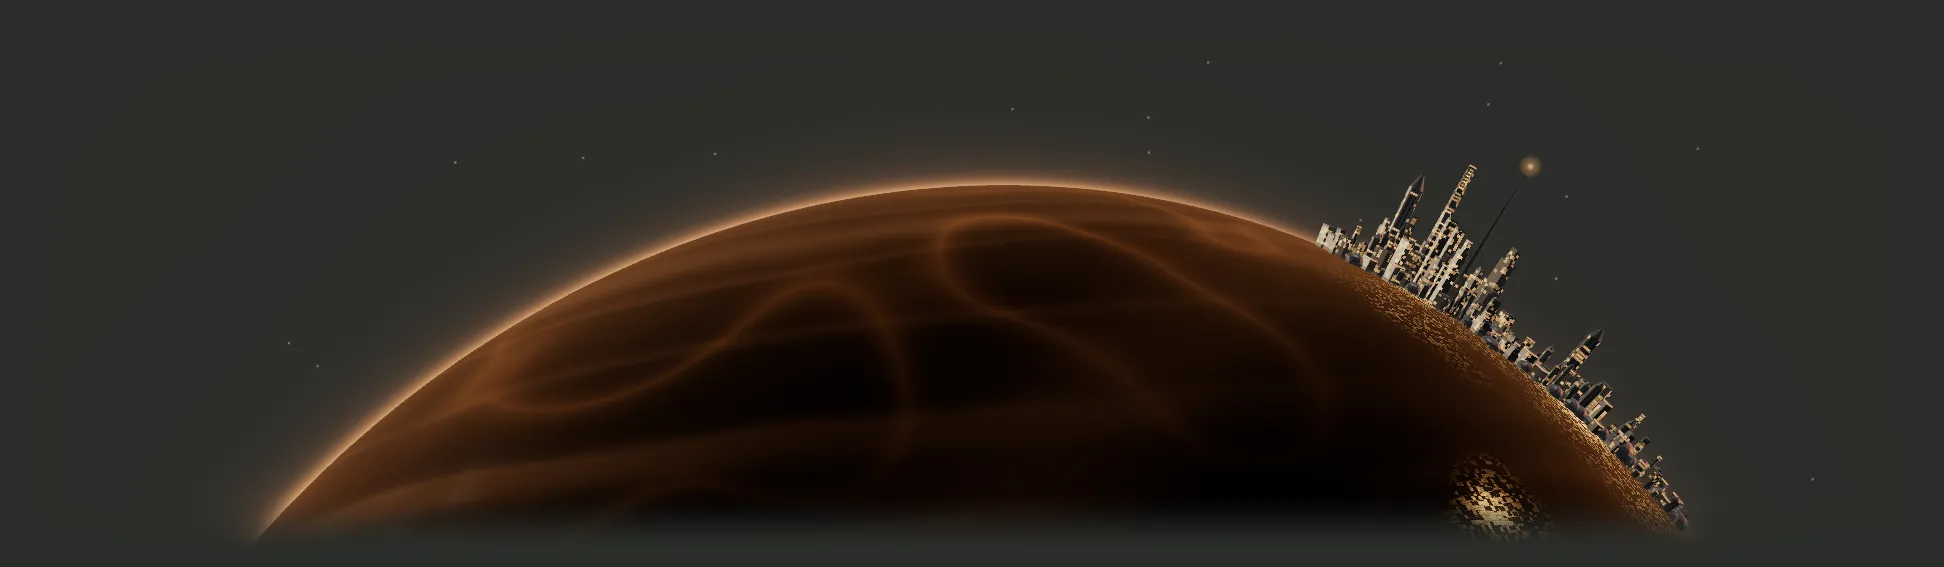
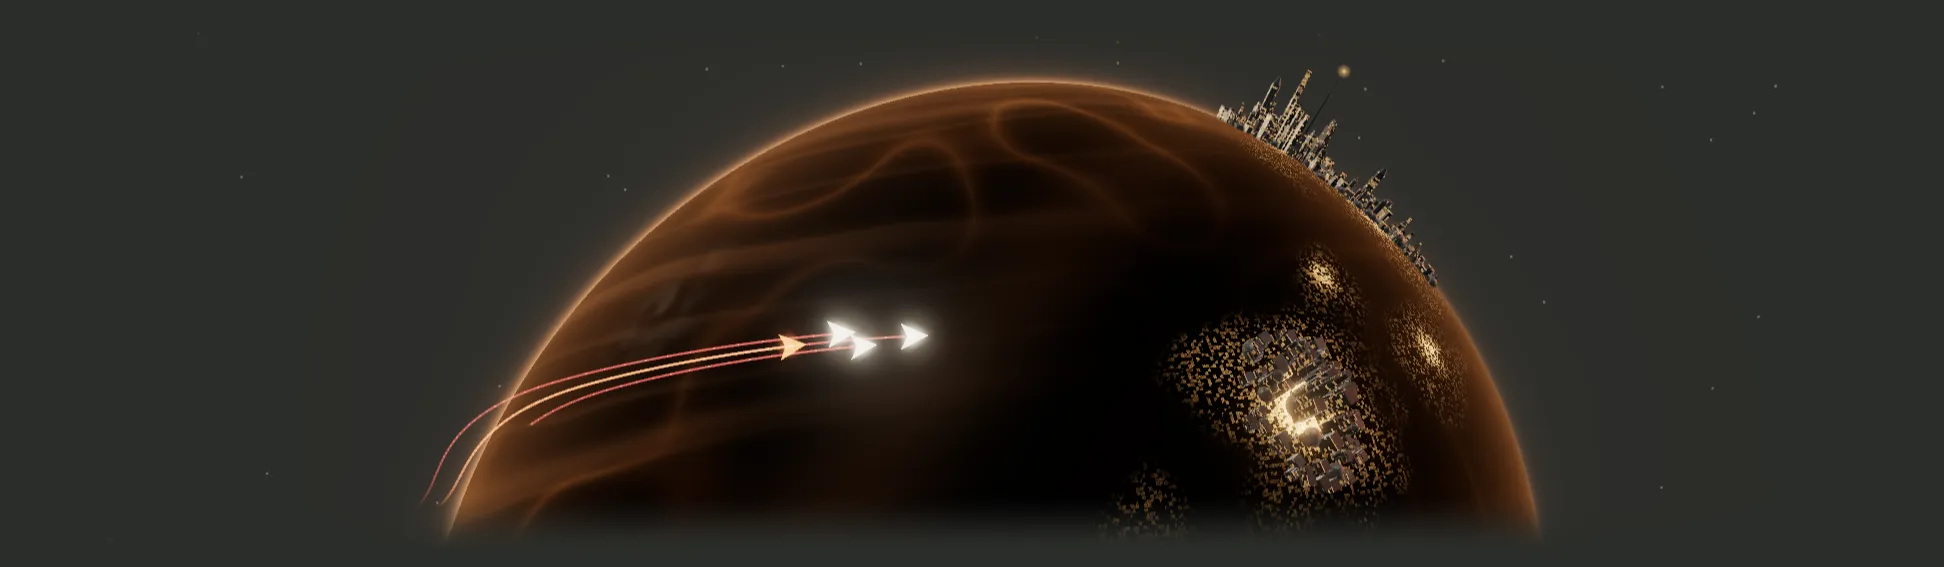
fix(#67): align project metaphors and reveal the Playbooks formation
Correct Home and Portfolio to describe projects as bases of operations. Reframe the existing Playbooks flight, separate its craft and refresh desktop/phone posters so the retained flight-plan caption matches the scene.

Agent: Codex (gpt-6-astra)

diff --git a/src/lib/orbit/collection-scene.ts b/src/lib/orbit/collection-scene.ts
@@ -26,7 +26,7 @@ import { Structures, buildingMaterial, cityCluster, cityLights, riser, groundSph
  * - `playbooks` — F3 Limb and lights: the site's own planet up close, its limb arcing across the
  *   upper stage; three skylines stand on the limb and the terminator and the night face carries
  *   city lights clustered into lit blocks; the formation (the chevron wedge with the copper craft)
- *   flies its play low across the night face over them, a 7 s pass every 14 s. The planet's crust
+ *   flies its play low across the night face over them, a 7 s pass every 10 s. The planet's crust
  *   is held so the cities stay put, and its own emission is dimmed under the lights.
  *
  * Both are decorative, not relational (D2): the sites' counts and shapes are unequal so nothing
@@ -370,12 +370,13 @@ const limbLights: Build = (s) => {
       n.normalize().multiplyScalar(R + (i === 0 || i === all.length - 1 ? 0.34 : 0.16)),
     ),
   );
-  const formation = wedge(s, 0.1, 0.04, 0.014);
-  const PERIOD = 14,
+  // #67: separated craft remain legible in the short landscape band, including phones.
+  const formation = wedge(s, 0.14, 0.085, 0.022);
+  const PERIOD = 10,
     FLY = 7;
   return {
     t0: 1.2,
-    poster: 4.0,
+    poster: 3.1,
     tick(t) {
       planet.update(t, 0, 0, 0.34, 0.25);
       body.uniforms.uSpin.value = 1.1; // the crust is held: the cities stay put
